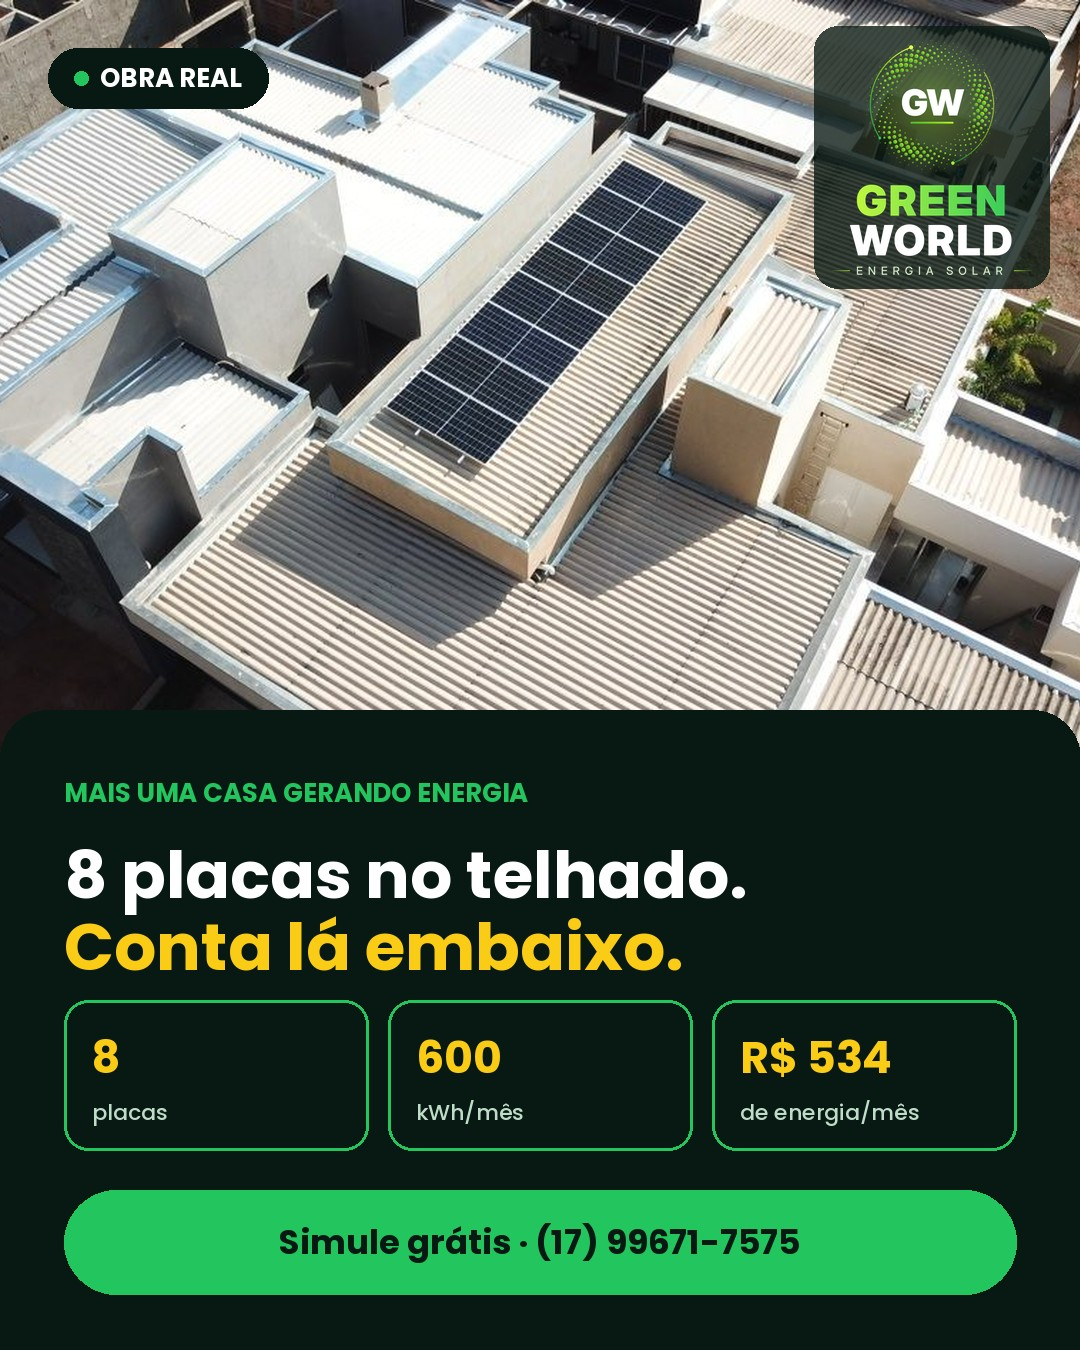
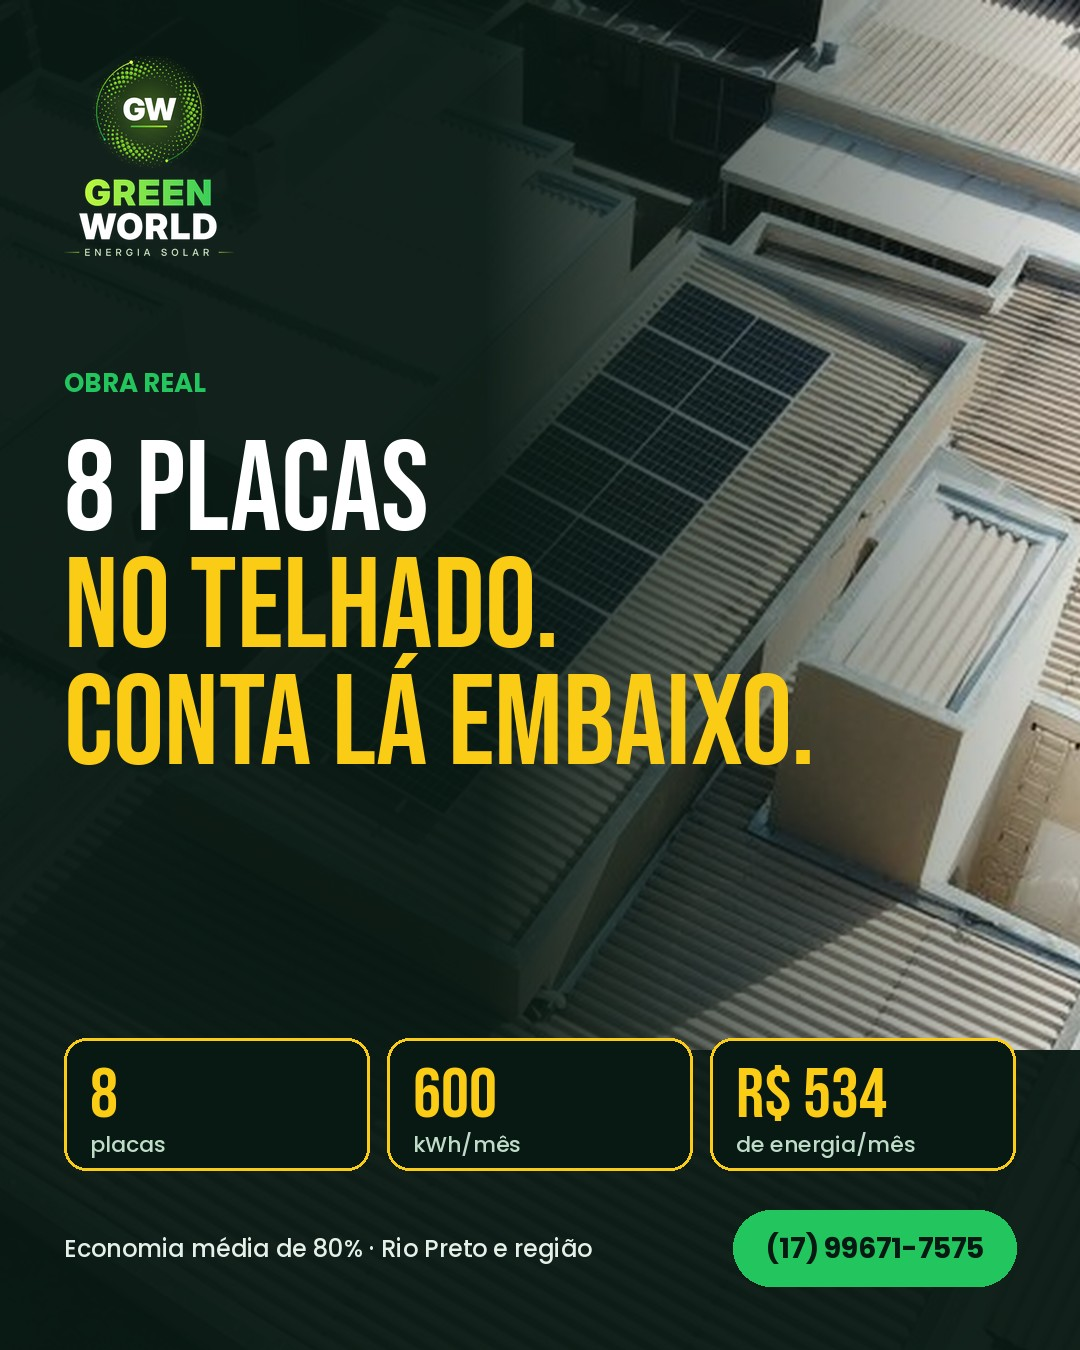
Semana 15-19/10 refeita no estilo novo
Claude-Session: https://claude.ai/code/session_01D5ZQK6a8hcQQRchwaRhvb5

diff --git a/arte.py b/arte.py
@@ -70,9 +70,9 @@ def veil(W, H, layout, story, text_end=None):
             a = 238 if y < solid else int(238 * (1 - (y - solid) / (top_end - solid)))
             d.line([(0, y), (W, y)], fill=a)
     # rodapé sempre escurecido
-    fh = 420 if story else 300
+    fh = 760 if story else 300
     for y in range(H - fh, H):
-        t = (y - (H - fh)) / fh
+        t = min(1, (y - (H - fh)) / (fh * 0.6))
         a = int(235 * t)
         cur = m.getpixel((0, y))
         d.line([(0, y), (W, y)], fill=max(cur, a))
